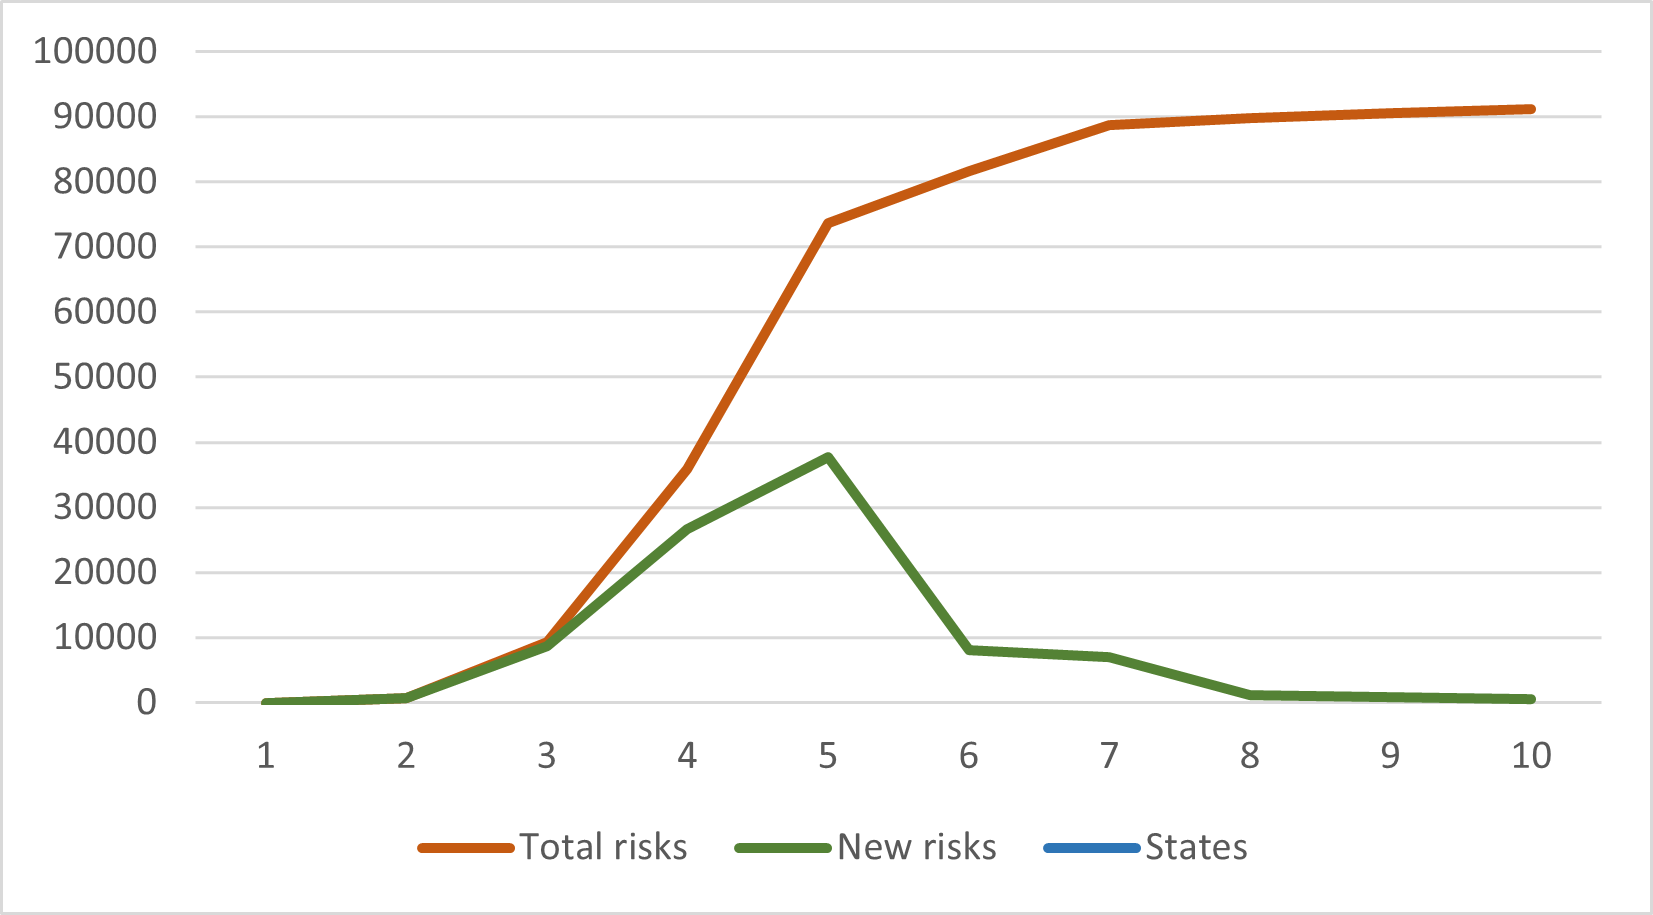
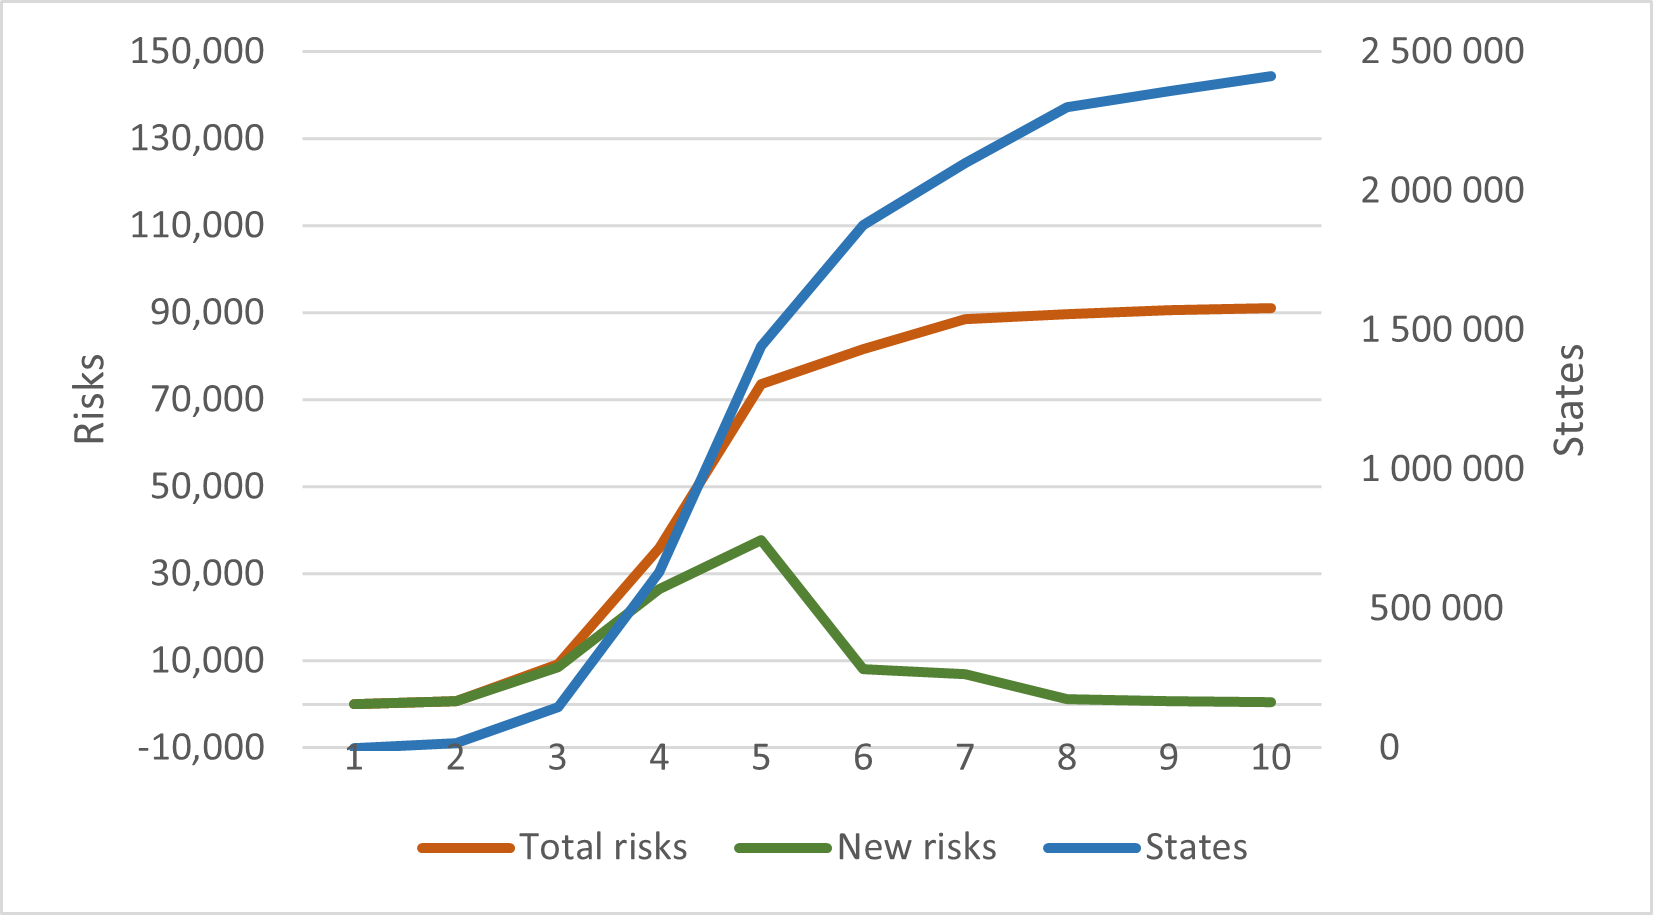
Maude case written up

diff --git a/papers/NaturalComputing/05-1-comorbidities.tex b/papers/NaturalComputing/05-1-comorbidities.tex
@@ -62,9 +62,9 @@ Minor risks    & DFS &      24 & 2 218
 \hline\hline
  3 &      0 &       0 &         0 \\ % &     3
  4 &    716 &     716 &    18 045 \\ % &    10
- 5 &  9 317 &   8 601 & \\ % &    70
- 6 & 35 899 &  26 582 & \\ % &   425
- 7 & 73 591 &  37 693 & \\ % & 2 277
+ 5 &  9 317 &   8 601 &   145 202 \\ % &    70
+ 6 & 35 899 &  26 582 &   630 986 \\ % &   425
+ 7 & 73 591 &  37 693 & 1 444 184 \\ % & 2 277
  8 & 81 691 &   8 100 & 1 875 086 \\ % & 1 765
  9 & 88 631 &   6 940 & 2 101 134 \\ % & 1 875
 10 & 89 733 &   1 102 & 2 300 038 \\ % & 2 368
@@ -81,9 +81,7 @@ At first sight, the number of major (and moderate) risks reported in \Cref{tab:c
 
 The line of \Cref{fig:cmsb-full} headed ``Maj\&Mod risks'' reports the number of configurations at which both a \major and a \moderate entity appear during the same step; hence, these are counted as both major and moderate risks (partially explaining their high numbers).
  
-\medskip\noindent By exploring only up to a certain depth, we can get some idea of the number of steps after which a risk typically appears, which in turn indicates the complexity of the context in which it appears. The second table in \Cref{tab:cmsb-experiments} shows how many major risks occur after a fixed number of reaction steps.
-
-Note that the results (in terms of number of risks found) are not entirely comparable to those in the first table, since by explicitly counting the length of the trace we lose the ability to identify cyclic behaviour; hence if the same configuration (in terms of entities present) can reoccur after (say) 4 and 6 steps, then any major risk directly derived from that configuration will be counted twice, after 5 and 7 steps, respectively.
+\medskip\noindent By exploring only up to a certain depth, we can get some idea of the number of steps after which a risk typically appears, which in turn indicates the complexity of the context in which it appears. The second table in \Cref{tab:cmsb-experiments} shows how many major risks occur after a fixed number of reaction steps, and also how much of the total state space is involved.
 
 \medskip\noindent Alternatively, we can stop exploring after having found a predetermined number of risks. By setting the exploration strategy to breadth-first search, it is guaranteed that the risks found are those reached after the shortest number of steps, meaning they are the easiest to analyze visually. For instance, \Cref{fig:cmsb-pruned} shows the occurrence graph of the first major risk found in this way.
 
@@ -100,7 +98,7 @@ The patient configuration in question is a combination of ``has\_fib'', ``afib''
 $AX(\bigwedge_i f_i \rightarrow EF \forbidden)$, where each of the $f_i$ specifies the presence or absence of a patient feature, specifies whether all patient profiles with that combination of features contain a potential risk.
 
 Concretely, in the case study at hand, \cite[Fig.~6]{DBLP:conf/cmsb/BowlesBBFGM24} contains the table reproduced in \Cref{fig:table-from-cmsb2024}. This claims that, \emph{precisely} in the combination of features where the green ones are present and the red ones absent, a major risk may occur. This translates to the CTL formula in the same figure.
-
+%
 \begin{figure*}
 \centering
 \includegraphics[scale=.4]{./figs/table-from-cmsb2024}\begin{lstlisting}[basicstyle=\ttfamily\small,xleftmargin=0cm]
@@ -115,22 +113,23 @@ AX( (afib           & heart_rate & consensus_acei & !over75                     
 \caption{CTL encoding of the major risk profiles found in \cite[Fig.~6]{DBLP:conf/cmsb/BowlesBBFGM24}}
 \label{fig:table-from-cmsb2024}
 \end{figure*}
-
+%
 Running the CTL model checker built into GROOVE, it reports that this is indeed satisfied. The time taken for this check consists of the following components:
 
 \begin{center}
 \begin{tabular}{lr}
-Generating the model: &  s \\
-Checking the formula: & 86 s 
+Model generation: &  s \\
+Model checking: & 86 s 
 \end{tabular}
 \end{center}
 %
 (The reason to split up these running times is that the model can be reused for other CTL checks.)
 
-\medskip\noindent Compared to the prior results in \cite{DBLP:conf/cmsb/BowlesBBFGM24}, the advantages of using \GROOVE lie in performance and flexibility:
+\subparagraph*{Discussion.}
+
+Compared to the prior results in \cite{DBLP:conf/cmsb/BowlesBBFGM24}, the advantages of using \GROOVE lie in performance and flexibility:
 \begin{itemize}
-\item The time needed to analyze the entire state space is around 41 minutes \GROOVE; while not particularly fast, this still compares very favourable to the 5 hours needed by \BioResolve.
+\item The time needed to analyze the entire state space is around 41 minutes for \GROOVE; while not particularly fast, this still compares very favourable to the 5 hours needed by \BioResolve.
 
 \item Finding shortest paths to risk configurations and computing occurrence graphs is part of the core functionality of \GROOVE --- given, of course, suitable rule systems that encode the chosen notion of causal dependency.
 \end{itemize}
-

diff --git a/papers/NaturalComputing/05-2-cancer.tex b/papers/NaturalComputing/05-2-cancer.tex
@@ -113,3 +113,6 @@ As a final observation, we note that the numbers of states in all these scenario
 \end{tabular}
 \end{center}
 
+\subparagraph*{Discussion.}
+
+Compared to the prior results in \cite{DBLP:conf/cmsb/BallisBFO24}, the advantages of using \GROOVE lie in the combination of visual inspection and automatic model checking. Not only were we able to confirm the findings of the original paper using exactly the same encoding of reaction system as for the previous case, but the ability to inspect and visualise the state spaces also gives additional insights, such as the observation above that steadiness as formalised there does not actually capture the intended notion of being an attractor.
